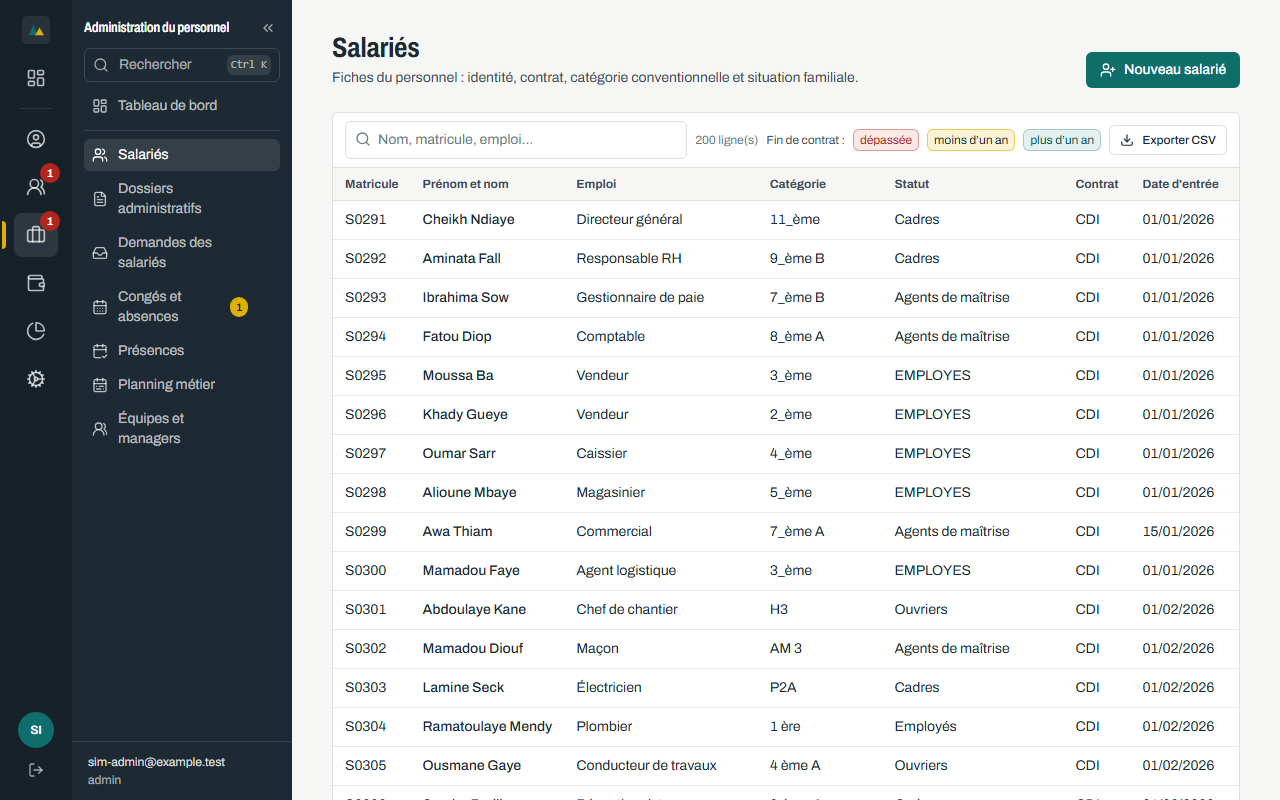
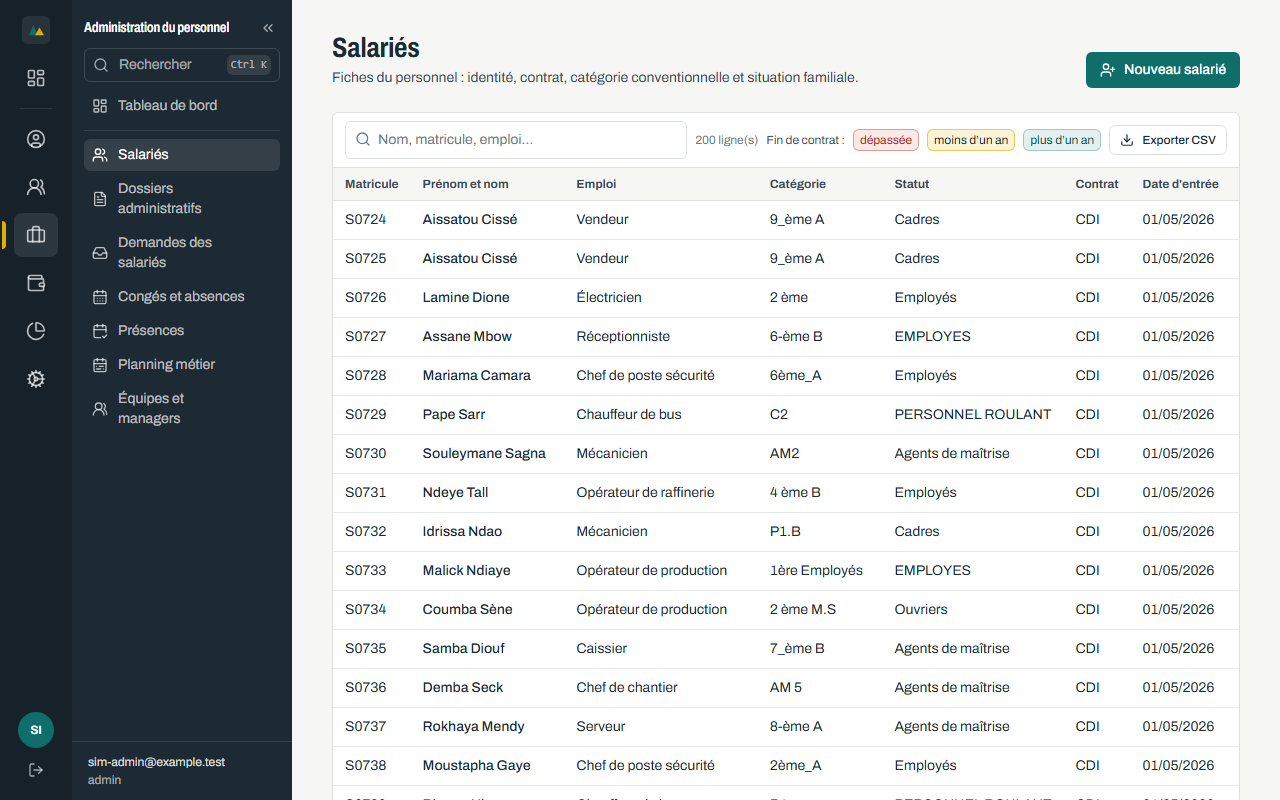
test(guide): rejeu des parcours existants sur base remise à zéro, liaison des comptes et équipe

diff --git a/web/e2e/sim/06-comptes.sim.spec.ts b/web/e2e/sim/06-comptes.sim.spec.ts
@@ -1,0 +1,47 @@
+import { test, expect, type Page } from '@playwright/test'
+import { as, field, record, rows } from './sim-helpers'
+import { capture } from './helpers/capture'
+
+// Bloc A — relier les comptes aux fiches (admin) puis constituer l'équipe d'un manager (RH). Base remise à zéro : matricules S0724 à S0923.
+test.describe.configure({ mode: 'serial' })
+const LIENS: [string, string][] = [['sim-sal-1', 'S0728'], ['sim-sal-2', 'S0729'], ['sim-sal-3', 'S0730'], ['sim-mgr-1', 'S0726']]
+
+async function choisir(sel: ReturnType<Page['locator']>, texte: string) {
+  const opt = (await sel.locator('option', { hasText: texte }).first().innerText()).trim()
+  await sel.selectOption({ label: opt })
+}
+
+test('A — relier les comptes sim aux fiches (Paramètres › Accès)', async ({ browser }) => {
+  const admin = await as(browser, 'admin')
+  await admin.goto('/parametres?onglet=acces')
+  await expect(admin.getByRole('heading', { name: 'Comptes et rôles' })).toBeVisible()
+  await capture(admin, 'acces-comptes-et-roles')
+  for (const [compte, num] of LIENS) {
+    const sel = admin.getByLabel(new RegExp(`Fiche liée à ${compte}@`))
+    await choisir(sel, num)
+    await expect(sel).not.toHaveValue('')
+    await admin.waitForTimeout(600)
+  }
+  await capture(admin, 'acces-fiches-reliees')
+  const liees = await rows<{ employee_number: string }>(admin, 'employees?select=employee_number&user_id=not.is.null')
+  expect(liees.map((l) => l.employee_number).sort()).toEqual(expect.arrayContaining(LIENS.map(([, n]) => n)))
+  record('UC-A-LIAISON-COMPTES', 'VERT', `${liees.length} comptes reliés à une fiche par l'interface`)
+})
+
+test('I — affecter deux salariés à l\'équipe du manager (Équipes et managers)', async ({ browser }) => {
+  const rh = await as(browser, 'rh')
+  await rh.goto('/equipes')
+  await expect(rh.getByRole('heading', { name: 'Équipes et managers' })).toBeVisible()
+  for (const num of ['S0728', 'S0729']) {
+    await choisir(field(rh, 'Manager'), 'S0726')
+    await choisir(field(rh, 'Salarié à affecter'), num)
+    await field(rh, 'Début').fill('2026-01-01')
+    if (num === 'S0728') await capture(rh, 'equipes-nouvelle-affectation')
+    await rh.getByRole('button', { name: 'Affecter à l’équipe' }).click()
+    await rh.waitForTimeout(1200)
+  }
+  await capture(rh, 'equipes-affectations-enregistrees')
+  const n = (await rows(rh, 'employee_manager_assignments?select=id')).length
+  expect(n).toBeGreaterThanOrEqual(2)
+  record('UC-I-EQUIPE', 'VERT', `${n} affectation(s) manager enregistrée(s)`)
+})

diff --git a/web/e2e/sim/12-reouverture.sim.spec.ts b/web/e2e/sim/12-reouverture.sim.spec.ts
@@ -3,7 +3,7 @@ import { as, govStep, record, rows, shot } from './sim-helpers'
 
 // Réouverture motivée d'octobre 2026 (admin), recalcul (RPR-05) avec le prorata de sortie (RPR-09), puis nouvelle clôture.
 // Idempotent : si octobre est déjà recalculé avec prorata, le test se limite à la vérification.
-const SORTANT = 'S0450'
+const SORTANT = 'S0883'
 
 test('réouverture d’octobre, recalcul et nouvelle clôture', async ({ browser }) => {
   const admin = await as(browser, 'admin')
@@ -21,7 +21,7 @@ test('réouverture d’octobre, recalcul et nouvelle clôture', async ({ browser
     const section = admin.locator('section, div').filter({ hasText: /^Octobre 2026/ }).filter({ has: admin.getByRole('button', { name: 'Rouvrir' }) }).last()
     await section.getByRole('button', { name: 'Rouvrir' }).click()
     const dlg = admin.getByRole('dialog')
-    await dlg.getByLabel(/Motif/).fill('Prorata de sortie D-56 (S0450) non appliqué au premier calcul')
+    await dlg.getByLabel(/Motif/).fill('Prorata de sortie D-56 (S0883) non appliqué au premier calcul')
     await shot(admin, 'reouverture-motif')
     await dlg.getByRole('button', { name: 'Rouvrir', exact: true }).click()
     await expect.poll(async () => (await rows<{ status: string }>(admin, `payroll_entries?select=status&id=eq.${entree.id}`))[0].status, { timeout: 30_000 }).toBe('Réouverte')

diff --git a/web/e2e/sim/11-octobre.sim.spec.ts b/web/e2e/sim/11-octobre.sim.spec.ts
@@ -2,11 +2,11 @@ import { test, expect, type Page } from '@playwright/test'
 import { as, count, createAndCalculate, field, govStep, record, rows, shot } from './sim-helpers'
 
 // Palier 10 (octobre 2026, 200 salariés) : sortie, congé, prêt, heures supplémentaires, calcul et workflow.
-// Idempotent : chaque test regarde l'état en base avant d'agir. Données fictives uniquement (S0291 à S0490).
+// Idempotent : chaque test regarde l'état en base avant d'agir. Données fictives uniquement (S0724 à S0923 après la remise à zéro du 12/11/2026).
 const YM = '2026-10'
-const SORTANT = 'S0450' // démission, sortie le 23/10/2026
-const EMPRUNTEUR = 'S0455' // prêt de 300 000 F sur 6 échéances
-const CONGE_SAL = 'S0295' // sal_1 (équipe de mgr_1)
+const SORTANT = 'S0883' // démission, sortie le 23/10/2026
+const EMPRUNTEUR = 'S0888' // prêt de 300 000 F sur 6 échéances
+const CONGE_SAL = 'S0728' // sal_1 (équipe de mgr_1)
 
 test.describe.configure({ mode: 'serial' })
 

diff --git a/docs/recette/SUIVI_GUIDE.md b/docs/recette/SUIVI_GUIDE.md
@@ -6,7 +6,7 @@ Mis à jour et commité à la fin de chaque étape. Les miniatures (120 px) renv
 |---|---|---|---|---|---|
 | A. Environnement et base | fait | — | 0 | — | voir `git log` |
 | B. Helper de capture | fait | 1 pass (`capture.mask.test.mjs`) ; `npm run check` 0 erreur | 0 | — | voir `git log` |
-| C. Rejeu complet (blocs A à J) | en cours | 05-demarrer 1/1 ; 10-croissance (paliers 5-9) 5/5 pass | 0 | ![](../guide-utilisateur/captures/referentiels-emplois-liste.png){width=120} | voir `git log` |
+| C. Rejeu complet (blocs A à J) | en cours : parcours existants rejoués (tous verts), parcours manquants à écrire | 05 1/1 · 06 2/2 · 10 5/5 · 11 4/4 · 12 1/1 · 20 8/8 · 30 7 fixme · 31 6/6 · 32 6/6 · menu 9/9 · a11y 7/7 · conformité 7/7 · téléphone 4/4 | 0 | <img src="../guide-utilisateur/captures/acces-fiches-reliees.png" width="120"> | voir `git log` |
 | D. Matrices et dossier de reprise | à faire | | | | |
 | E. Rédaction du guide | à faire | | | | |
 | F. Vérifications | à faire | | | | |
@@ -32,3 +32,19 @@ Sur base remise à zéro, le référentiel « Emplois » est vide : 23 emplois c
 - Base : 200 salariés, 200 affectations de structure.
 - **ORANGE à confirmer (intermittent)** : sur la page d'un salarié neuf, la section « Structure salariale » n'apparaît parfois pas dans les 8 s (3 occurrences sur ~200 embauches), ou la page reste blanche. Cause non établie (lenteur du serveur de développement ou chargement paresseux). Délai du test porté à 20 s ; aucune correction de l'application.
 - Problèmes de test corrigés (sans effet sur l'application) : sélecteur « Enregistrer » ambigu avec « Enregistrer la fiche » ; emplois à recréer après remise à zéro.
+
+### Parcours existants rejoués (base remise à zéro) — aucun ROUGE, aucune régression par rapport au palier 10
+| Fichier | Résultat | Remarque |
+|---|---|---|
+| 06-comptes (nouveau) | 2/2 VERT | comptes reliés aux fiches, équipe de  (captures acces-*, equipes-*) |
+| 11-octobre | 4/4 VERT | sortie D-56, congé, prêt (plafond 1/3 refusé : « Retenue mensuelle trop élevée… »), calcul et clôture d'octobre |
+| 12-reouverture | VERT | réouverture motivée, recalcul (1 ligne RET_PRORATA), reclôture |
+| 20-roles | 8/8 VERT | pages autorisées par rôle, refus pour manager et salarié, isolation des bulletins |
+| 30-rpr | 7 fixme | RPR-03, 05, 07, 08, 11, 13, 15 : couvertes par SQL/API/unitaires, pas par Playwright (NON REJOUÉ) |
+| 31-rpr-mutating | 6/6 VERT | RPR-01/12, 02, 04, 06, 10, 14 |
+| 32-telephone | 6/6 VERT | demande, autorisation admin, usage unique, 5 dates fausses, réinitialisation/révocation, refus |
+| e2e menu / a11y / conformité / téléphone | 12 / 10 / 10 / 7 VERT | comptes QA régénérés depuis les comptes SIM |
+
+**Constat ORANGE du palier 10 (étape manager des congés) : TRANCHÉ.** Rejoué :  approuve l'étape 1 (« Mon équipe »),  l'étape 2 ; état final « Approuvée ». Plus d'ORANGE.
+
+**Outillage** :  échoue (403, l'inscription publique est fermée) ;  (hors Git) régénéré depuis . Matricules des tests décalés (+433) après la remise à zéro.
